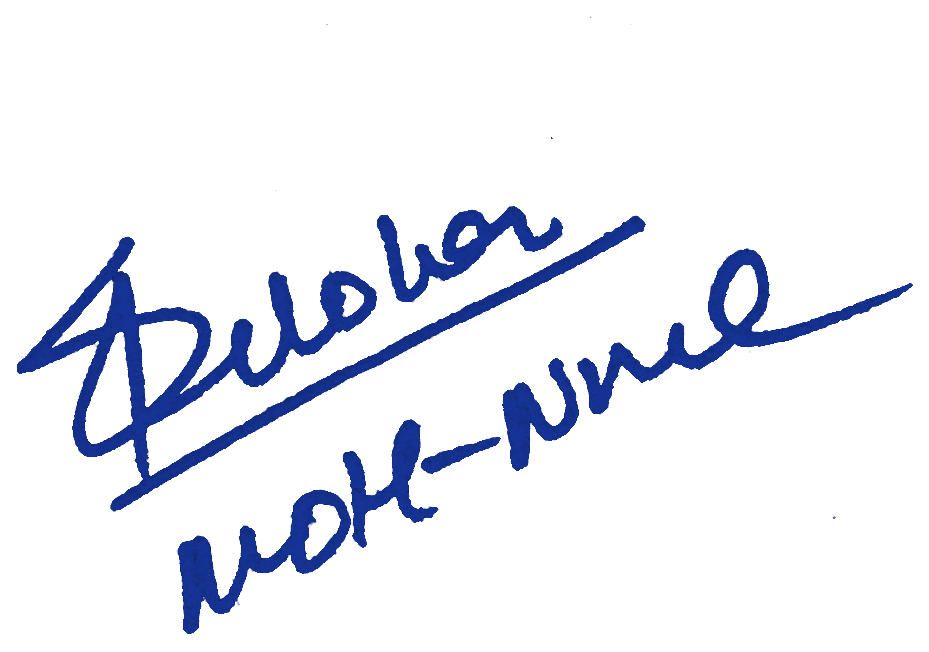
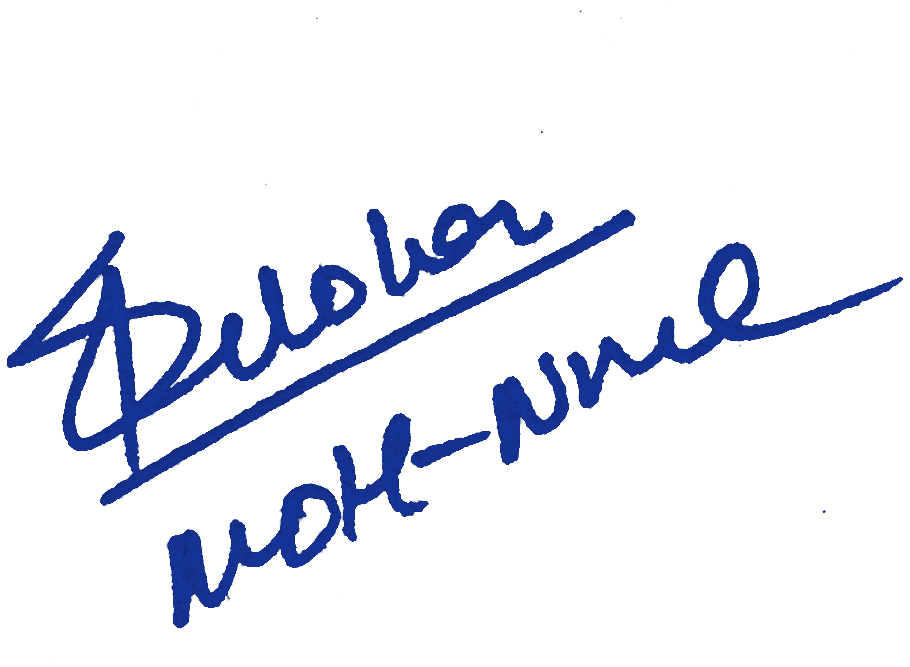
feat: scale up Dr. Deepak Selokar signature size on certificates to match Dr. Sandeep

Changed region(s): [[0.0, 0.3067, 0.7077, 0.7975], [0.1846, 0.3681, 1.0, 0.9816], [0.2769, 0.3988, 0.3077, 0.4601]]

diff --git a/src/app/(student)/result/[attemptId]/page.tsx b/src/app/(student)/result/[attemptId]/page.tsx
@@ -658,17 +658,17 @@ export default function StudentResultPage({
                         return (
                           <div key={sig.id || idx} className="text-center min-w-[125px] sm:min-w-[155px] max-w-[185px]">
                             {/* Signature Image above the line */}
-                            <div className="h-9 sm:h-11 flex items-end justify-center mb-1">
+                            <div className="h-12 sm:h-16 flex items-end justify-center mb-1">
                               {sigImg ? (
                                 // eslint-disable-next-line @next/next/no-img-element
                                 <img
                                   src={sigImg}
                                   alt={sig.name}
                                   crossOrigin="anonymous"
-                                  className="h-8 sm:h-10 w-auto object-contain max-w-[130px] drop-shadow-xs"
+                                  className={`${isDrDeepak ? 'h-11 sm:h-15 max-w-[145px]' : 'h-8 sm:h-11 max-w-[140px]'} w-auto object-contain drop-shadow-xs`}
                                 />
                               ) : (
-                                <div className="h-5" />
+                                <div className="h-6" />
                               )}
                             </div>
 

diff --git a/src/lib/certificatePdf.ts b/src/lib/certificatePdf.ts
@@ -414,10 +414,13 @@ export async function generateCertificatePdfBuffer({
       // Render uploaded transparent PNG signature centered just above the signature line
       if (img) {
         const aspect = img.width / img.height
-        let drawW = maxSigImgW
+        // Allow taller headroom for multi-tier / squarer signatures (aspect < 1.7) so the actual signature name isn't shrunk
+        const effectiveMaxH = aspect < 1.7 ? (sigCount === 4 ? 18 : 22) : (sigCount === 4 ? 14 : 16.5)
+        const effectiveMaxW = maxSigImgW
+        let drawW = effectiveMaxW
         let drawH = drawW / aspect
-        if (drawH > maxSigImgH) {
-          drawH = maxSigImgH
+        if (drawH > effectiveMaxH) {
+          drawH = effectiveMaxH
           drawW = drawH * aspect
         }
         try {
@@ -425,7 +428,7 @@ export async function generateCertificatePdfBuffer({
             img.dataUrl,
             'PNG',
             centerX - drawW / 2,
-            lineY - drawH - 1.5,
+            lineY - drawH - 1.0,
             drawW,
             drawH
           )

diff --git a/src/lib/signatories.ts b/src/lib/signatories.ts
@@ -27,7 +27,7 @@ export const DEFAULT_SIGNATORIES: CertificateSignatory[] = [
     designation: 'Medical Officer Health (MOH)',
     organization: 'Nagpur Municipal Corporation, Nagpur',
     organizationLine2: '',
-    signatureUrl: 'https://ulrrjbsjcssxwdjivrzc.supabase.co/storage/v1/object/public/certificate-assets/signatures/dr_deepak_selokar_signature_1795156982474.png',
+    signatureUrl: 'https://ulrrjbsjcssxwdjivrzc.supabase.co/storage/v1/object/public/certificate-assets/signatures/dr_deepak_selokar_signature_1795157465250.png',
   },
 ]
 
